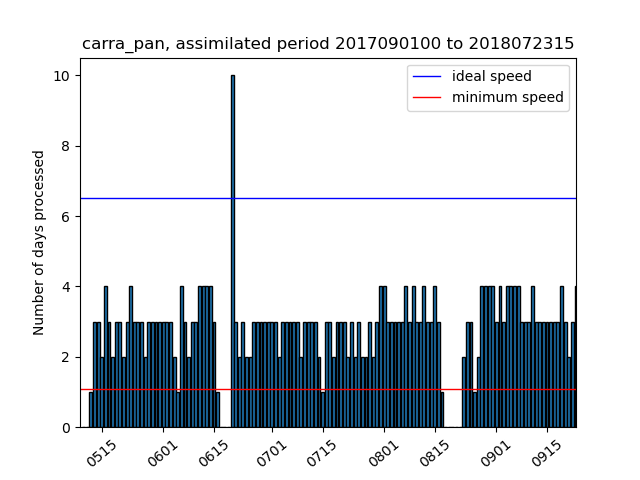
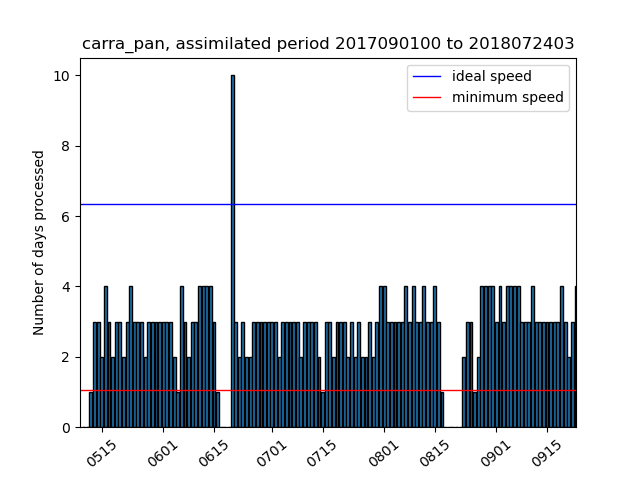
update repo

Changed region(s): [[0.125, 0.7812, 0.9062, 0.8438], [0.125, 0.4062, 0.9062, 0.4375], [0.8438, 0.0625, 0.9062, 0.125]]

diff --git a/current_state_sims.html b/current_state_sims.html
@@ -2,18 +2,18 @@
 <h1>Estimated completion dates and simulation speeds</h1>
 <p>Stream (production) completion date based on 30d (7d) moving avg speed</p>
 <p><a href="https://docs.google.com/document/d/1zDKAxuEXYnWWYzT3SZnZwY5WW8nodUMeYRjAGz46coc/edit#">Details of the calculation of the completion dates</a></p>
-<p>Last update: 2021/09/24 12:43:02 UTC</p>
+<p>Last update: 2021/09/24 18:45:44 UTC</p>
 <p>Total progress CARRA: 99.22% <a href="https://hirlam.org/portal/CARRA/Progress/GanntChart_CARRA.html"> (see detailed progress meter in Gantt chart) </a></p>
 <p>Total progress PANARCTIC: 90.91% </p>
 <p><a href="https://hirlam.org/portal/CARRA/Progress/waiting_times.html"> Queue waiting times for all streams</a></p>
 <p><a href="https://hirlam.org/portal/CARRA/Progress/mars_status.html"> MARS archive throughput </a></p>
 <html><table border="1"><tr><th>expId</th><th>Current assimilated date</th><th>End date of stream </th><th> Completion date</th><th> Avg. throughput (7d) </th> <th>Avg. throughput (30d) </th> <th> Remarks</tr>
-<tr bgcolor="#FFFFFF"><td>carra_NE_3</td><td>2021063000</td><td>2021063021</td><td>2021092412</td><td>(3.14) days/day</td><td>(3.6) days/day</td><td></tr>
+<tr bgcolor="#FFFFFF"><td>carra_NE_3</td><td>2021063000</td><td>2021063021</td><td>2021092418</td><td>(3.14) days/day</td><td>(3.6) days/day</td><td></tr>
 <tr bgcolor="#33FF38"><td>carra_NE_4</td><td>1992090100</td><td>1992083021</td><td>Finished on 20210824</td><td>(0.0) days/day</td><td>(0.0) days/day</td><td>Stream finished</tr>
 <tr bgcolor="#33FF38"><td>carra_NE_5</td><td>1994090100</td><td>1994083021</td><td>Finished on 20210824</td><td>(0.0) days/day</td><td>(0.0) days/day</td><td>Stream finished</tr>
-<tr bgcolor="#33FF38"><td>carra_NE_6</td><td>1997070100</td><td>1997063021</td><td>2021092408</td><td>(0.0) days/day</td><td>(5.1) days/day</td><td>Stream finished</tr>
-<tr bgcolor="#FFFFFF"><td>carra_IGB_3</td><td>2021063000</td><td>2021063021</td><td>2021092412</td><td>(3.86) days/day</td><td>(3.47) days/day</td><td></tr>
-<tr bgcolor="#33FF38"><td>carra_IGB_4</td><td>1992090100</td><td>1992083021</td><td>2021092320</td><td>(0.0) days/day</td><td>(2.9) days/day</td><td>Stream finished</tr>
-<tr bgcolor="#FFFFFF"><td>carra_IGB_5</td><td>1994082712</td><td>1994083021</td><td>2021092500</td><td>(6.0) days/day</td><td>(5.93) days/day</td><td></tr>
-<tr bgcolor="#FFA500"><td>carra_IGB_6</td><td>1996112012</td><td>1997063021</td><td>2021110108</td><td>(5.71) days/day</td><td>(5.87) days/day</td><td>Completion date after project end (20211031)</tr>
-<tr bgcolor="#FFFFFF"><td>carra_pan</td><td>2018072315</td><td>2018083121</td><td>2021100611</td><td>(3.14) days/day</td><td>(3.27) days/day</td><td></tr>
+<tr bgcolor="#33FF38"><td>carra_NE_6</td><td>1997070100</td><td>1997063021</td><td>2021092414</td><td>(0.0) days/day</td><td>(5.1) days/day</td><td>Stream finished</tr>
+<tr bgcolor="#FFFFFF"><td>carra_IGB_3</td><td>2021063000</td><td>2021063021</td><td>2021092418</td><td>(3.86) days/day</td><td>(3.47) days/day</td><td></tr>
+<tr bgcolor="#33FF38"><td>carra_IGB_4</td><td>1992090100</td><td>1992083021</td><td>2021092402</td><td>(0.0) days/day</td><td>(2.9) days/day</td><td>Stream finished</tr>
+<tr bgcolor="#FFFFFF"><td>carra_IGB_5</td><td>1994082900</td><td>1994083021</td><td>2021092422</td><td>(6.0) days/day</td><td>(5.93) days/day</td><td></tr>
+<tr bgcolor="#FFA500"><td>carra_IGB_6</td><td>1996112118</td><td>1997063021</td><td>2021110110</td><td>(5.71) days/day</td><td>(5.87) days/day</td><td>Completion date after project end (20211031)</tr>
+<tr bgcolor="#FFFFFF"><td>carra_pan</td><td>2018072403</td><td>2018083121</td><td>2021100609</td><td>(3.14) days/day</td><td>(3.27) days/day</td><td></tr>
